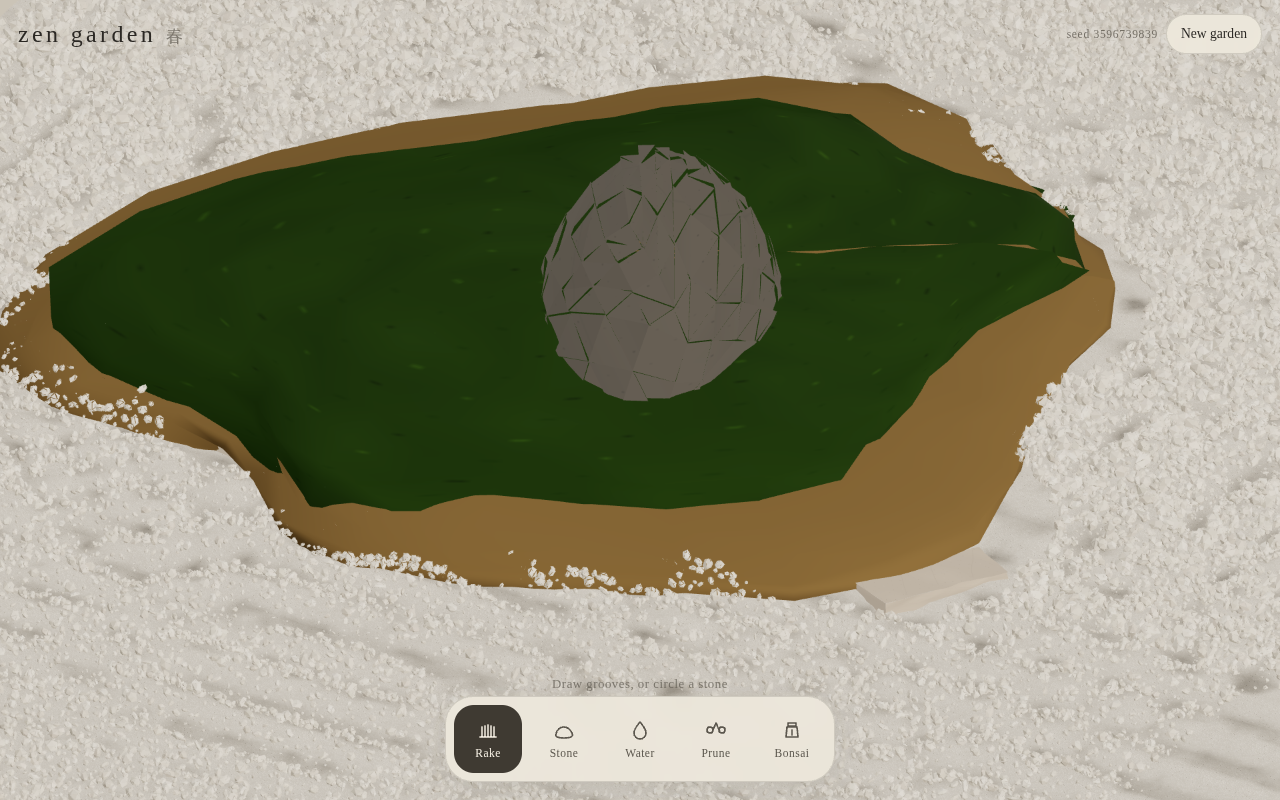
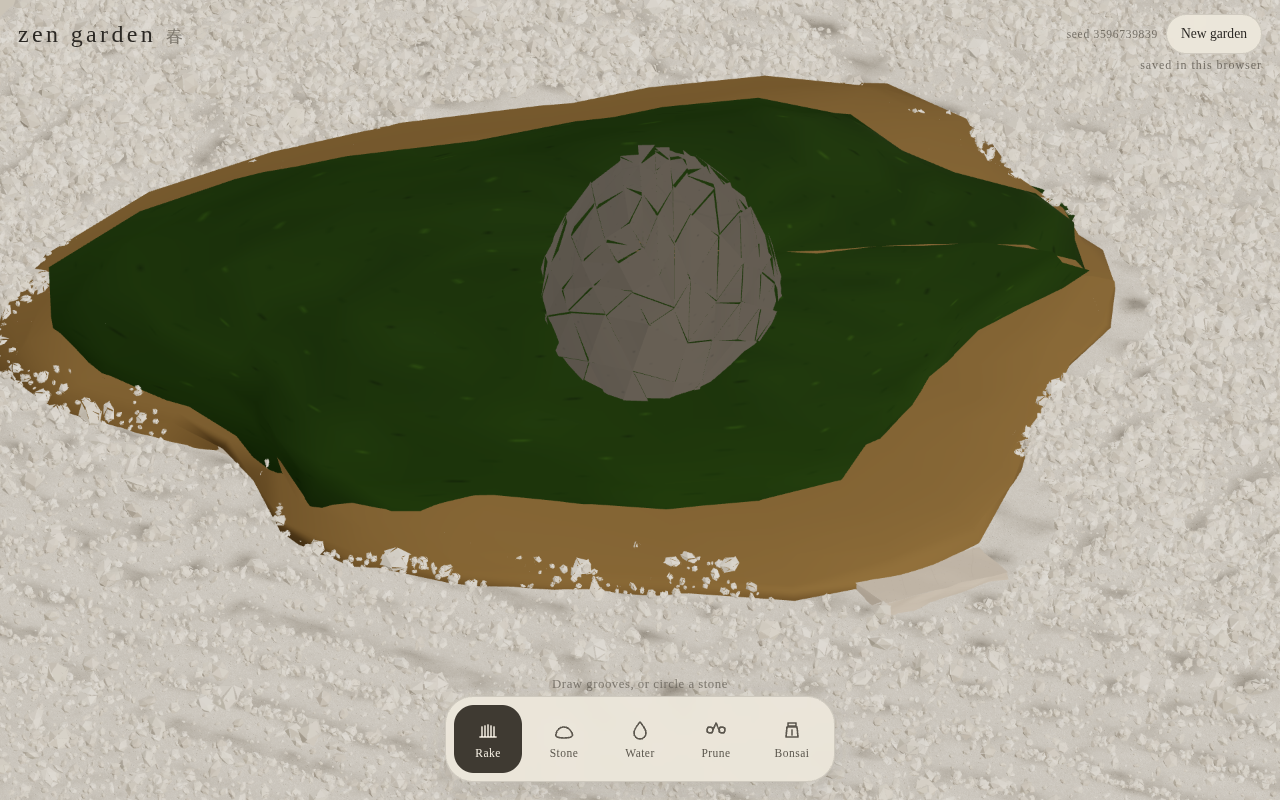
Pack a view-aligned near field of smaller grains
A world-axis square wasted the instance budget on off-screen grit, so
close-ups read as plastic shards. Lay shards in the camera parallelogram
at grain scale and soften shading so a nose-on view is tiny irregular grit.

diff --git a/src/grains.ts b/src/grains.ts
@@ -115,7 +115,7 @@ export class GrainBed {
     this.placeNear();
   }
 
-  followLook(tx: number, tz: number, zoom: number, elevation = 0.4, aspect = 1.6): boolean {
+  followLook(tx: number, tz: number, zoom: number, elevation = 0.4, aspect = 1.6, azimuth = 0.7): boolean {
     const moved = Math.hypot(tx - this.lookX, tz - this.lookZ);
     const zoomed = Math.abs(zoom - this.lookZoom) / Math.max(0.2, this.lookZoom);
     const spacing = this.nearSpacing(zoom);
@@ -123,7 +123,7 @@ export class GrainBed {
     this.lookX = tx;
     this.lookZ = tz;
     this.lookZoom = zoom;
-    this.layoutNear(tx, tz, zoom, elevation, aspect);
+    this.layoutNear(tx, tz, zoom, elevation, aspect, azimuth);
     this.placeNear();
     return true;
   }
@@ -139,28 +139,32 @@ export class GrainBed {
     return THREE.MathUtils.clamp(zoom * 0.01, this.nearMinSpacing, 0.016);
   }
 
-  private layoutNear(tx: number, tz: number, zoom: number, elevation = 0.4, aspect = 1.6): void {
+  private layoutNear(tx: number, tz: number, zoom: number, elevation = 0.4, aspect = 1.6, azimuth = 0.7): void {
     const stretch = 1 / Math.max(0.22, Math.sin(elevation));
-    const viewH = zoom * 0.72 * stretch;
-    const viewW = zoom * 0.68 * Math.max(1.15, aspect);
-    const reach = THREE.MathUtils.clamp(Math.max(viewH, viewW) * 1.22, 0.95, 3.15);
-    const halfH = reach;
-    const halfW = reach;
-    const area = halfW * 2 * halfH * 2;
-    const spacing = THREE.MathUtils.clamp(Math.sqrt(area / (this.maxNear * 0.86)), this.nearMinSpacing, 0.028);
-    const cols = Math.max(8, Math.ceil((halfW * 2) / spacing));
-    const rows = Math.max(8, Math.ceil((halfH * 2) / (spacing * 0.86)));
+    const halfAlong = THREE.MathUtils.clamp(zoom * 0.62 * stretch * 1.12, 0.55, 2.4);
+    const halfAcross = THREE.MathUtils.clamp(zoom * 0.58 * Math.max(1.1, aspect) * 1.12, 0.42, 1.8);
+    const area = halfAlong * 2 * halfAcross * 2;
+    const spacing = THREE.MathUtils.clamp(Math.sqrt(area / (this.maxNear * 0.8)), this.nearMinSpacing, 0.02);
+    const rightX = Math.cos(azimuth);
+    const rightZ = -Math.sin(azimuth);
+    const fwdX = -Math.sin(azimuth);
+    const fwdZ = -Math.cos(azimuth);
+    const cols = Math.max(8, Math.ceil((halfAcross * 2) / spacing));
+    const rows = Math.max(8, Math.ceil((halfAlong * 2) / (spacing * 0.86)));
     let n = 0;
     const max = this.maxNear;
-    for (let j = 0; j < rows && n < max; j++) {
+    const layer0Budget = Math.floor(max * 0.74);
+    for (let j = 0; j < rows && n < layer0Budget; j++) {
       const hex = (j & 1) * 0.5;
-      for (let i = 0; i < cols && n < max; i++) {
+      for (let i = 0; i < cols && n < layer0Budget; i++) {
         const jx = hash01(i * 19 + 3, j * 29 + 11) - 0.5;
         const jz = hash01(i * 41 + 7, j * 17 + 5) - 0.5;
-        const x = tx + (i + hex - cols * 0.5 + jx * 0.94) * spacing;
-        const z = tz + (j - rows * 0.5 + jz * 0.94) * spacing * 0.86;
+        const u = (i + hex - cols * 0.5 + jx * 0.9) * spacing;
+        const v = (j - rows * 0.5 + jz * 0.9) * spacing * 0.86;
+        const x = tx + u * rightX + v * fwdX;
+        const z = tz + u * rightZ + v * fwdZ;
         if (Math.abs(x) > GARDEN.width * 0.5 - 0.04 || Math.abs(z) > GARDEN.depth * 0.5 - 0.04) continue;
-        const fat = hash01(i + 3, j + 9) > 0.91 ? 1.55 : 0.7;
+        const fat = hash01(i + 3, j + 9) > 0.93 ? 1.25 : 0.58;
         writePose(this.nearX, this.nearZ, this.nearRx, this.nearRy, this.nearRz, this.nearSx, this.nearSy, this.nearSz, n, x, z, i, j, fat);
         this.nearLayer[n] = 0;
         n += 1;
@@ -379,10 +383,10 @@ function writePose(
   rx[i] = hash01(col, row + 21) * Math.PI;
   ry[i] = hash01(col + 9, row) * Math.PI * 2;
   rz[i] = hash01(col + 3, row + 7) * Math.PI;
-  const s = (0.0054 + hash01(col + 15, row + 4) * 0.0115) * size;
-  sx[i] = s * (0.55 + hash01(col, row + 33) * 1.05);
-  sy[i] = s * (0.42 + hash01(col + 18, row) * 0.95);
-  sz[i] = s * (0.52 + hash01(col + 4, row + 12) * 1.0);
+  const s = (0.0036 + hash01(col + 15, row + 4) * 0.0058) * size;
+  sx[i] = s * (0.7 + hash01(col, row + 33) * 0.7);
+  sy[i] = s * (0.52 + hash01(col + 18, row) * 0.62);
+  sz[i] = s * (0.66 + hash01(col + 4, row + 12) * 0.68);
 }
 
 function makeInstanced(geo: THREE.BufferGeometry, mat: THREE.Material, count: number): THREE.InstancedMesh {
@@ -419,7 +423,7 @@ function createGrainMaterial(): THREE.MeshStandardMaterial {
     emissive: 0x3d382e,
     emissiveIntensity: 0.2,
     vertexColors: false,
-    flatShading: true,
+    flatShading: false,
     envMapIntensity: 0,
   });
   mat.onBeforeCompile = (shader) => {

diff --git a/src/game.ts b/src/game.ts
@@ -170,7 +170,7 @@ export class ZenGarden {
     this.sand.flush();
     this.grains.setBlockers(this.blockers());
     this.grains.rebuild();
-    this.grains.followLook(this.cam.target.x, this.cam.target.z, this.cam.zoom, this.cam.elevation, this.cam.aspect);
+    this.grains.followLook(this.cam.target.x, this.cam.target.z, this.cam.zoom, this.cam.elevation, this.cam.aspect, this.cam.azimuth);
     this.settleOccupants();
     this.meter.plantMs = performance.now() - t0;
     this.ui.setSeed(seed);
@@ -197,7 +197,7 @@ export class ZenGarden {
     this.sand.flush();
     this.grains.setBlockers(this.blockers());
     this.grains.rebuild();
-    this.grains.followLook(this.cam.target.x, this.cam.target.z, this.cam.zoom, this.cam.elevation, this.cam.aspect);
+    this.grains.followLook(this.cam.target.x, this.cam.target.z, this.cam.zoom, this.cam.elevation, this.cam.aspect, this.cam.azimuth);
     this.settleOccupants();
     this.ui.setSeed(save.seed);
   }
@@ -624,7 +624,7 @@ export class ZenGarden {
     if (this.sand.consumeOccupantSettle()) this.settleOccupants();
     const packed = this.sand.flush();
     if (packed) this.grains.syncRegion(this.sand.dirtyWorld());
-    this.grains.followLook(this.cam.target.x, this.cam.target.z, this.cam.zoom, this.cam.elevation, this.cam.aspect);
+    this.grains.followLook(this.cam.target.x, this.cam.target.z, this.cam.zoom, this.cam.elevation, this.cam.aspect, this.cam.azimuth);
     this.bonsai.update(performance.now(), this.clock.elapsedTime);
     if (this.basinGroup) updateWater(this.basinGroup, this.waterTime);
     if (this.lanternGroup) updateLanterns(this.lanternGroup, this.waterTime);
@@ -699,12 +699,12 @@ export class ZenGarden {
           tx: state.tx ?? cur.tx,
           tz: state.tz ?? cur.tz,
         });
-        this.grains.followLook(this.cam.target.x, this.cam.target.z, this.cam.zoom, this.cam.elevation, this.cam.aspect);
+        this.grains.followLook(this.cam.target.x, this.cam.target.z, this.cam.zoom, this.cam.elevation, this.cam.aspect, this.cam.azimuth);
         this.scheduleSave(true);
       },
       dolly: (delta) => {
         this.cam.dolly(delta);
-        this.grains.followLook(this.cam.target.x, this.cam.target.z, this.cam.zoom, this.cam.elevation, this.cam.aspect);
+        this.grains.followLook(this.cam.target.x, this.cam.target.z, this.cam.zoom, this.cam.elevation, this.cam.aspect, this.cam.azimuth);
         this.scheduleSave();
       },
     };

diff --git a/src/gravelShader.ts b/src/gravelShader.ts
@@ -96,8 +96,8 @@ export function applySandBedShader(
          float curve = 4.0 * h - hL - hR - hD - hU;
          float trough = clamp(-curve * 3.2, 0.0, 1.0);
          float crest = clamp(curve * 3.2, 0.0, 1.0);
-         vec4 g0 = gritCell(world, 240.0);
-         vec4 g1 = gritCell(world + vec2(0.31, 0.17), 118.0);
+         vec4 g0 = gritCell(world, 320.0);
+         vec4 g1 = gritCell(world + vec2(0.31, 0.17), 160.0);
          vec3 pale = vec3(0.93, 0.90, 0.85);
          vec3 mid = vec3(0.86, 0.83, 0.77);
          vec3 deep = vec3(0.62, 0.58, 0.53);
@@ -120,12 +120,12 @@ export function applySandBedShader(
            vec3 hz = vec3(0.0, (texture2D(uField, uvN + vec2(0.0, uTexel.y)).r - fld.r) * uHeightRange, uGarden.y * uTexel.y);
            vec3 slopeN = normalize(cross(hz, hx));
            vec4 cell = gritCell(worldN, 240.0);
-           vec3 gritN = normalize(vec3(cell.z, 0.85, cell.w));
-           normal = normalize(mix(normal, slopeN, 0.38));
-           normal = normalize(mix(normal, gritN, 0.46));
+           vec3 gritN = normalize(vec3((cell.x - 0.5) * 0.7, 1.15, (hash12(cell.xy + 3.1) - 0.5) * 0.7));
+           normal = normalize(mix(normal, slopeN, 0.28));
+           normal = normalize(mix(normal, gritN, 0.34));
          }
         `,
       );
   };
-  mat.customProgramCacheKey = () => "sand-bed-grit-v3";
+  mat.customProgramCacheKey = () => "sand-bed-grit-v4";
 }

diff --git a/src/device.ts b/src/device.ts
@@ -56,7 +56,7 @@ export function chooseGrainQuality(software: boolean): {
   maxBed: number;
 } {
   if (wantHighQuality()) {
-    return { bedSpacing: 0.024, nearMinSpacing: 0.006, maxNear: 38000, maxBed: 78000 };
+    return { bedSpacing: 0.022, nearMinSpacing: 0.0052, maxNear: 48000, maxBed: 82000 };
   }
   if (software) {
     return { bedSpacing: 0.062, nearMinSpacing: 0.012, maxNear: 8000, maxBed: 18000 };

diff --git a/tests/screenshots.spec.ts b/tests/screenshots.spec.ts
@@ -38,10 +38,10 @@ test.describe("screenshots", () => {
 
     await page.evaluate(() => {
       window.__ZEN_GARDEN__!.setCamera({
-        azimuth: 0.18,
-        elevation: 0.24,
-        zoom: 0.44,
-        tx: -2.85,
+        azimuth: 0.22,
+        elevation: 0.26,
+        zoom: 0.52,
+        tx: -2.7,
         tz: 1.88,
       });
     });
